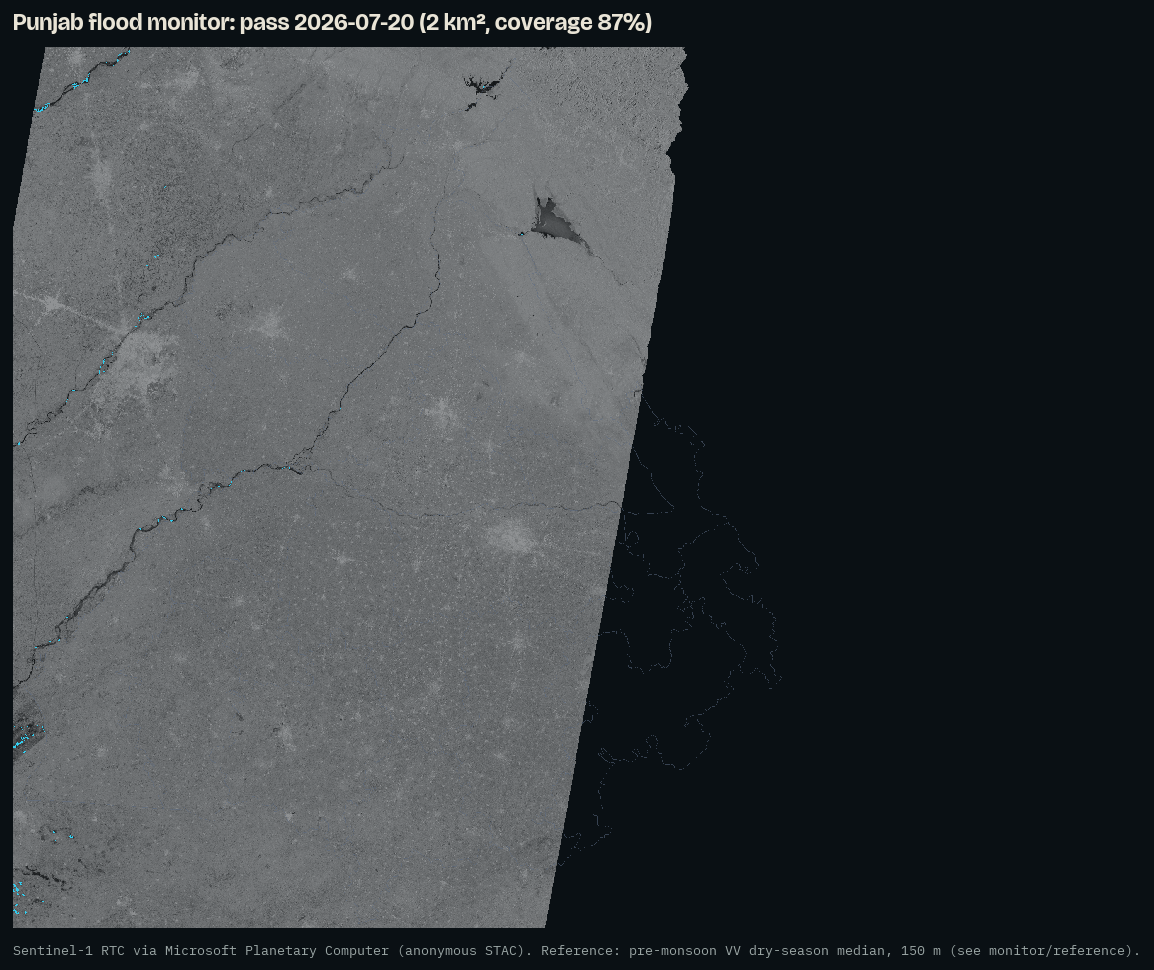
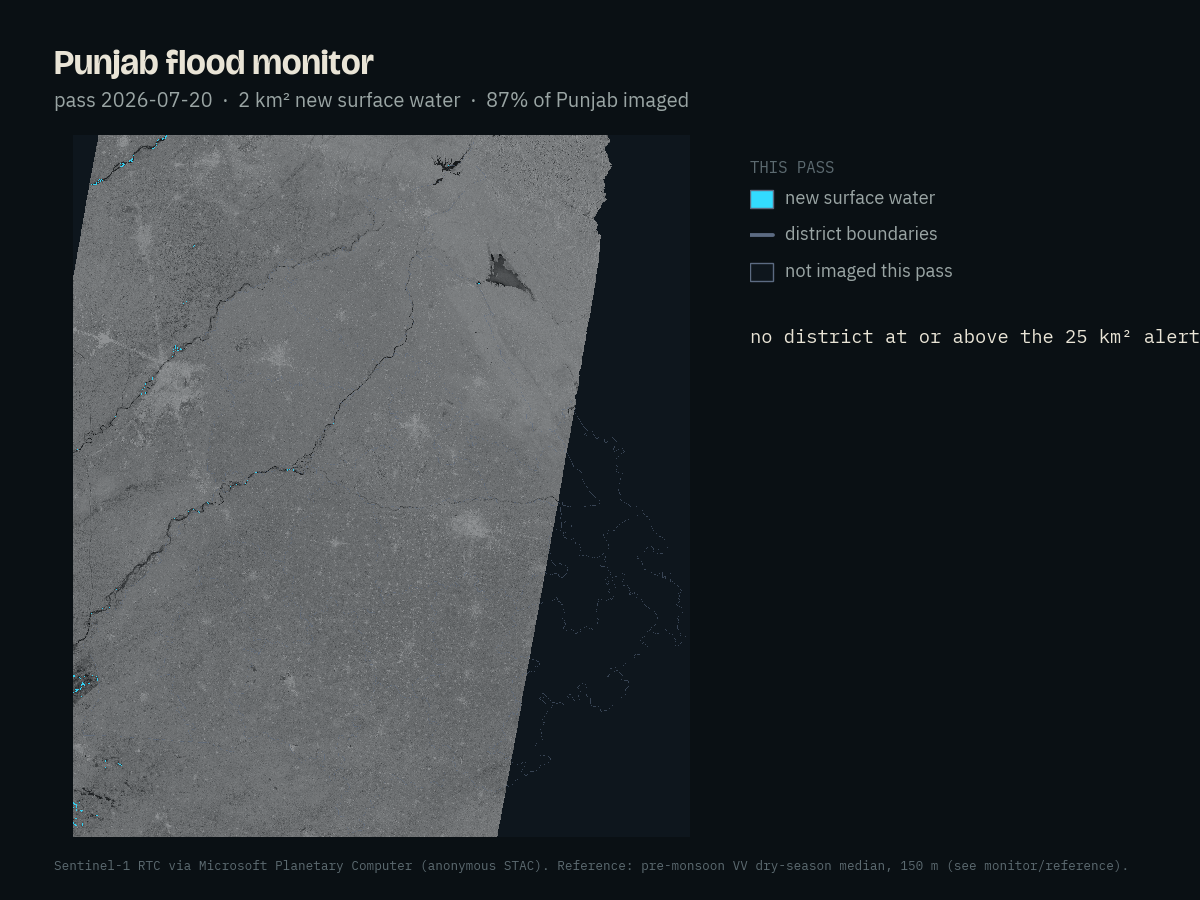
fix(now): explorer defaults to the observed-water layer so quiet days still show the rivers; overlapping tag chip removed from the latest-pass card; monitor card regenerated with wrapped status

diff --git a/docs/index.html b/docs/index.html
@@ -299,7 +299,6 @@ footer .cr{max-width:60ch}
     <div class="fc-grid">
       <div>
         <figure class="panel">
-          <span class="tag">Latest pass · auto-refreshed</span>
           <img id="now-img" src="https://raw.githubusercontent.com/bakathefish/Flood/master/monitor/latest.png" alt="The most recent Sentinel-1 radar pass over Punjab, rendered by the live monitor" loading="lazy">
           <figcaption><b>The newest satellite pass over Punjab</b>
           Real Sentinel-1 radar, fetched and rendered by the monitor on public CI within hours of acquisition, then committed to the repo. Dark tones are smooth water. <span id="now-img-note"></span></figcaption>
@@ -656,7 +655,7 @@ function stampAge(el, utc){
   const setDay = d => {
     if (!d) return;
     if (flood) m.removeLayer(flood);
-    flood = L.tileLayer.wms(OWS, {...wmsOpts('gfm_observed_flood_extent_group_layer'), time: d + 'T00:00Z', opacity:.85}).addTo(m);
+    flood = L.tileLayer.wms(OWS, {...wmsOpts('gfm_observed_water_extent_group_layer'), time: d + 'T00:00Z', opacity:.85}).addTo(m);
   };
   setDay(lastDay);
   dateIn.addEventListener('change', () => setDay(dateIn.value));